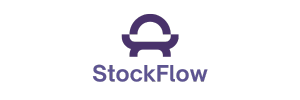
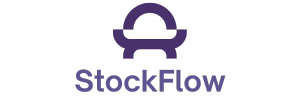
Final commit | employee and manager completed

Changed region(s): [[0.24, 0.63, 0.75, 0.93], [0.36, 0.03, 0.63, 0.6]]

diff --git a/src/components/AllProducts/page.tsx b/src/components/AllProducts/page.tsx
@@ -1,6 +1,6 @@
 "use client";
 
-import React, { useState } from "react";
+import React, { useState, useEffect } from "react";
 import { CreateItemForm } from "../forms/CreateItemForm";
 import { CreateAisleForm } from "../forms/CreateAisleForm";
 import { CreateShelfForm } from "../forms/CreateShelfForm";
@@ -13,6 +13,18 @@ const AllProductsPage = () => {
   const [isAisleModalOpen, setIsAisleModalOpen] = useState(false);
   const [isShelfModalOpen, setIsShelfModalOpen] = useState(false);
   const [isBayModalOpen, setIsBayModalOpen] = useState(false);
+  const [userRole, setUserRole] = useState<string | null>(null);
+
+  // Retrieve user role on component mount
+  useEffect(() => {
+    const user =
+      typeof window !== "undefined"
+        ? JSON.parse(sessionStorage.getItem("user") || "{}")
+        : null;
+    if (user) {
+      setUserRole(user.role); // Set user role (manager or employee)
+    }
+  }, []);
 
   const openProductModal = () => setIsProductModalOpen(true);
   const closeProductModal = () => setIsProductModalOpen(false);
@@ -28,36 +40,43 @@ const AllProductsPage = () => {
 
   return (
     <div className="p-6 bg-white rounded-lg min-h-screen">
-      <div className="flex flex-wrap justify-center gap-6 mb-10">
-        {[
-          { label: "Create New Product", onClick: openProductModal },
-          { label: "Create New Aisle", onClick: openAisleModal },
-          { label: "Create New Shelf", onClick: openShelfModal },
-          { label: "Create New Bay", onClick: openBayModal },
-        ].map((btn, idx) => (
-          <button
-            key={idx}
-            onClick={btn.onClick}
-            className="w-full sm:w-[45%] py-6 px-6 text-xl text-[#333] rounded-xl 
-              bg-[#f3f2fb]
-              shadow-[8px_8px_16px_#bebebe,_-8px_-8px_16px_#ffffff]
-              hover:shadow-[4px_4px_8px_#bebebe,_-4px_-4px_8px_#ffffff]
-              active:shadow-inner
-              transition-all duration-200 ease-in-out
-              flex items-center justify-center gap-3"
-          >
-            <FiPlus className="text-[#6B21A8]" size={26} />
-            {btn.label}
-          </button>
-        ))}
-      </div>
+      {/* Only show the flex container if the user is a manager */}
+      {userRole === "manager" && (
+        <div className="flex flex-wrap justify-center gap-6 mb-10">
+          {[
+            { label: "Create New Product", onClick: openProductModal },
+            { label: "Create New Aisle", onClick: openAisleModal },
+            { label: "Create New Shelf", onClick: openShelfModal },
+            { label: "Create New Bay", onClick: openBayModal },
+          ].map((btn, idx) => (
+            <button
+              key={idx}
+              onClick={btn.onClick}
+              className="w-full sm:w-[45%] py-6 px-6 text-xl text-[#333] rounded-xl 
+                bg-[#f3f2fb]
+                shadow-[8px_8px_16px_#bebebe,_-8px_-8px_16px_#ffffff]
+                hover:shadow-[4px_4px_8px_#bebebe,_-4px_-4px_8px_#ffffff]
+                active:shadow-inner
+                transition-all duration-200 ease-in-out
+                flex items-center justify-center gap-3"
+            >
+              <FiPlus className="text-[#6B21A8]" size={26} />
+              {btn.label}
+            </button>
+          ))}
+        </div>
+      )}
 
+      {/* Display modals */}
       {isProductModalOpen && <CreateItemForm onClose={closeProductModal} />}
       {isAisleModalOpen && <CreateAisleForm onClose={closeAisleModal} />}
       {isShelfModalOpen && <CreateShelfForm onClose={closeShelfModal} />}
       {isBayModalOpen && <CreateBayForm onClose={closeBayModal} />}
 
-      <ProductsTable />
+      {/* Always show the ProductsTable */}
+      <div className={userRole === "employee" ? "mt-0" : "mt-10"}>
+        <ProductsTable />
+      </div>
     </div>
   );
 };

diff --git a/src/components/Sidebar/RouteSelect.tsx b/src/components/Sidebar/RouteSelect.tsx
@@ -1,4 +1,4 @@
-import React, { useState } from "react";
+import React, { useState, useEffect } from "react";
 import { IconType } from "react-icons";
 import {
   FiMessageSquare,
@@ -14,54 +14,74 @@ export const RouteSelect = ({
 }: {
   onRouteChange: (route: string) => void;
 }) => {
-  const [selectedRoute, setSelectedRoute] = useState("Inventory");
-  const router = useRouter(); // Initialize the router for redirection --
+  const [selectedRoute, setSelectedRoute] = useState<string | null>(null);
+  const router = useRouter(); // Initialize the router for redirection
 
+  // Retrieve user from sessionStorage
+  const user =
+    typeof window !== "undefined"
+      ? JSON.parse(sessionStorage.getItem("user") || "{}")
+      : null;
+
+  // Set the default route based on the user role
+  useEffect(() => {
+    if (user?.role === "employee") {
+      setSelectedRoute("All products"); // Default for employee
+    } else if (user?.role === "manager") {
+      setSelectedRoute("Inventory"); // Default for manager
+    }
+  }, [user]); // Run when the user role changes
+
+  // If no user or selectedRoute is null, return loading state
+  if (selectedRoute === null) {
+    return <div>Loading...</div>; // Loading state while the user data is being processed
+  }
+
+  // Handle route changes
   const handleRouteChange = (route: string) => {
-    setSelectedRoute(route);
-    onRouteChange(route);
+    setSelectedRoute(route); // Update the selected route
+    onRouteChange(route); // Callback to the parent to update the route
 
     // Handle logout action
     if (route === "Log out") {
       sessionStorage.clear();
-      router.push("/login"); // destroy session and go to /
+      router.push("/login"); // Redirect to login after logout
     }
   };
 
   return (
     <div className="space-y-1">
-      <Route
-        Icon={FiHome}
-        selected={selectedRoute === "Inventory"}
-        title="Inventory"
-        onClick={() => handleRouteChange("Inventory")}
-      />
-      {/* <Route
-        Icon={FiHome}
-        selected={selectedRoute === "Store Layout"}
-        title="Store Layout"
-        onClick={() => handleRouteChange("Store Layout")}
-      /> */}
+      {user?.role === "manager" && (
+        <Route
+          Icon={FiHome}
+          selected={selectedRoute === "Inventory"}
+          title="Inventory"
+          onClick={() => handleRouteChange("Inventory")}
+        />
+      )}
+      {user?.role === "manager" && (
+        <Route
+          Icon={FiPieChart}
+          selected={selectedRoute === "Analytics"}
+          title="Analytics"
+          onClick={() => handleRouteChange("Analytics")}
+        />
+      )}
+      {/* All users can access the "All products" page */}
       <Route
         Icon={FiBox}
         selected={selectedRoute === "All products"}
         title="All products"
-        onClick={() => {
-          handleRouteChange("All products");
-        }}
+        onClick={() => handleRouteChange("All products")}
       />
-      <Route
-        Icon={FiPieChart}
-        selected={selectedRoute === "Analytics"}
-        title="Analytics"
-        onClick={() => handleRouteChange("Analytics")}
-      />
+      {/* Show route for customers feedback */}
       <Route
         Icon={FiMessageSquare}
         selected={selectedRoute === "Customers Feedback"}
         title="Customers Feedback"
         onClick={() => handleRouteChange("Customers Feedback")}
       />
+      {/* Log out route */}
       <Route
         Icon={FiLogOut}
         selected={selectedRoute === "Log out"}
@@ -72,6 +92,7 @@ export const RouteSelect = ({
   );
 };
 
+// Route Component
 const Route = ({
   selected,
   Icon,

diff --git a/src/components/Sidebar/AccountToggle.tsx b/src/components/Sidebar/AccountToggle.tsx
@@ -1,18 +1,40 @@
-import React from "react";
+import React, { useEffect, useState } from "react";
 import { FiChevronDown, FiChevronUp } from "react-icons/fi";
 
 export const AccountToggle = () => {
+  const [userRole, setUserRole] = useState<string | null>(null);
+
+  useEffect(() => {
+    // Get user role from sessionStorage (or any other method you're using to store user data)
+    const user =
+      typeof window !== "undefined"
+        ? JSON.parse(sessionStorage.getItem("user") || "{}")
+        : null;
+    if (user) {
+      setUserRole(user.role); // Set user role to state (either 'employee' or 'manager')
+    }
+  }, []);
+
+  // Conditionally render the access message and the avatar SVG based on the role
   return (
     <div className="border-b mb-4 mt-2 pb-4 border-stone-300">
       <button className="flex p-0.5 hover:bg-stone-200 rounded transition-colors relative gap-2 w-full items-center">
         <img
-          src="https://api.dicebear.com/9.x/notionists/svg"
+          src={
+            userRole === "employee"
+              ? "https://api.dicebear.com/9.x/thumbs/svg?flip=false" // Employee avatar SVG
+              : "https://api.dicebear.com/9.x/notionists/svg" // Manager avatar SVG
+          }
           alt="avatar"
           className="size-8 rounded shrink-0 bg-violet-500 shadow"
         />
         <div className="text-start">
-          <span className="text-sm font-bold block">Manager Access</span>
+          <span className="text-sm font-bold block">
+            {userRole === "employee" ? "Employee Access" : "Manager Access"}
+          </span>
         </div>
+        {/* Optionally add a chevron down/up icon here if needed */}
+        {/* <FiChevronDown className="ml-2" /> */}
       </button>
     </div>
   );

diff --git a/src/app/login/page.tsx b/src/app/login/page.tsx
@@ -3,6 +3,7 @@
 import React, { useState } from "react";
 import { useRouter } from "next/navigation";
 
+// Mock users with different roles (manager and employee)
 const mockUsers = [
   { username: "manager", password: "manager123", role: "manager" },
   { username: "employee", password: "employee123", role: "employee" },
@@ -17,9 +18,10 @@ const LoginPage = () => {
     const user = mockUsers.find(
       (user) => user.username === username && user.password === password
     );
+
     if (user) {
-      sessionStorage.setItem("user", JSON.stringify(user));
-      router.push("/"); // Redirect to the main page after successful login
+      sessionStorage.setItem("user", JSON.stringify(user)); // Store user info in session
+      router.push("/"); // Redirect to the dashboard
     } else {
       alert("Invalid credentials");
     }
@@ -32,14 +34,13 @@ const LoginPage = () => {
         {/* Left: Login form */}
         <div className="flex flex-col justify-center">
           <div className="sm:mx-auto sm:w-full sm:max-w-sm">
+            {/* Updated Image */}
             <img
               className="mx-auto h-auto w-auto"
               src="/StockFlow.png"
               alt="Your Company"
+              style={{ imageRendering: "auto" }} // Added this for better rendering
             />
-            {/* <h2 className="mt-6 text-center text-3xl font-bold text-gray-900">
-              Sign in to <span className="text-indigo-700">StockFlow</span>
-            </h2> */}
           </div>
 
           <div className="mt-8 sm:mx-auto sm:w-full sm:max-w-sm">

diff --git a/src/app/page.tsx b/src/app/page.tsx
@@ -8,7 +8,7 @@ import { Sidebar } from "@/components/Sidebar/Sidebar";
 export default function Home() {
   const [isClient, setIsClient] = useState(false); // Track if we're on the client
   const [user, setUser] = useState<any>(null); // Store user data from sessionStorage
-  const [selectedRoute, setSelectedRoute] = useState("Inventory"); // Track the selected route
+  const [selectedRoute, setSelectedRoute] = useState("All products"); // Default to "All products" for employees
   const router = useRouter();
 
   // This useEffect runs when the component mounts
@@ -18,7 +18,15 @@ export default function Home() {
     // Retrieve user info from sessionStorage
     const storedUser = sessionStorage.getItem("user");
     if (storedUser) {
-      setUser(JSON.parse(storedUser)); // Parse user data if available
+      const userData = JSON.parse(storedUser); // Parse user data if available
+      setUser(userData); // Update state with user data
+
+      // Set the default route based on user role
+      if (userData?.role === "employee") {
+        setSelectedRoute("All products"); // Default route for employee
+      } else if (userData?.role === "manager") {
+        setSelectedRoute("Inventory"); // Default route for manager
+      }
     } else {
       setUser(null); // No user found in sessionStorage
     }

diff --git a/src/components/Dashboard/Dashboard.tsx b/src/components/Dashboard/Dashboard.tsx
@@ -1,7 +1,6 @@
 import React from "react";
 import { TopBar } from "./TopBar";
 import { Grid } from "./Grid";
-//import { AisleManagement } from "../StoreLayout/AisleManagement";
 import AllProductsPage from "../AllProducts/page";
 import InventoryPage from "../Inventory/page";
 import { CustomersFeedback } from "../CustomersFeedback/page";
@@ -17,8 +16,8 @@ export const Dashboard = ({ selectedRoute }: { selectedRoute: string }) => {
   return (
     <div className="bg-white rounded-lg pb-4 shadow">
       <TopBar user={user} />
+      {/* Ensure that selectedRoute matches one of the expected routes */}
       {selectedRoute === "Analytics" && <Grid isManager={isManager} />}
-      {/* {selectedRoute === "Store Layout" && <AisleManagement />} */}
       {selectedRoute === "Inventory" && <InventoryPage isManager={isManager} />}
       {selectedRoute === "All products" && <AllProductsPage />}
       {selectedRoute === "Customers Feedback" && <CustomersFeedback />}

diff --git a/src/components/Inventory/InventoryPage.tsx b/src/components/Inventory/InventoryPage.tsx
@@ -20,7 +20,7 @@ const InventoryPage: React.FC<InventoryPageProps> = ({ isManager }) => {
       {isManager && <ProductRadar />}
       {isManager && <StockAlerts />}
       {isManager && <StockHistogram />}
-      <RecentInventoryActivity />
+      {isManager && <RecentInventoryActivity />}
     </div>
   );
 };

diff --git a/src/components/Dashboard/Grid.tsx b/src/components/Dashboard/Grid.tsx
@@ -14,7 +14,7 @@ export const Grid: React.FC<GridProps> = ({ isManager }) => {
       {isManager && <StatCards />}
       {isManager && <ActivityGraph />}
       {isManager && <EmployerPerformanceRadar />}
-      <RecentTransactions />
+      {isManager && <RecentTransactions />}
     </div>
   );
 };
